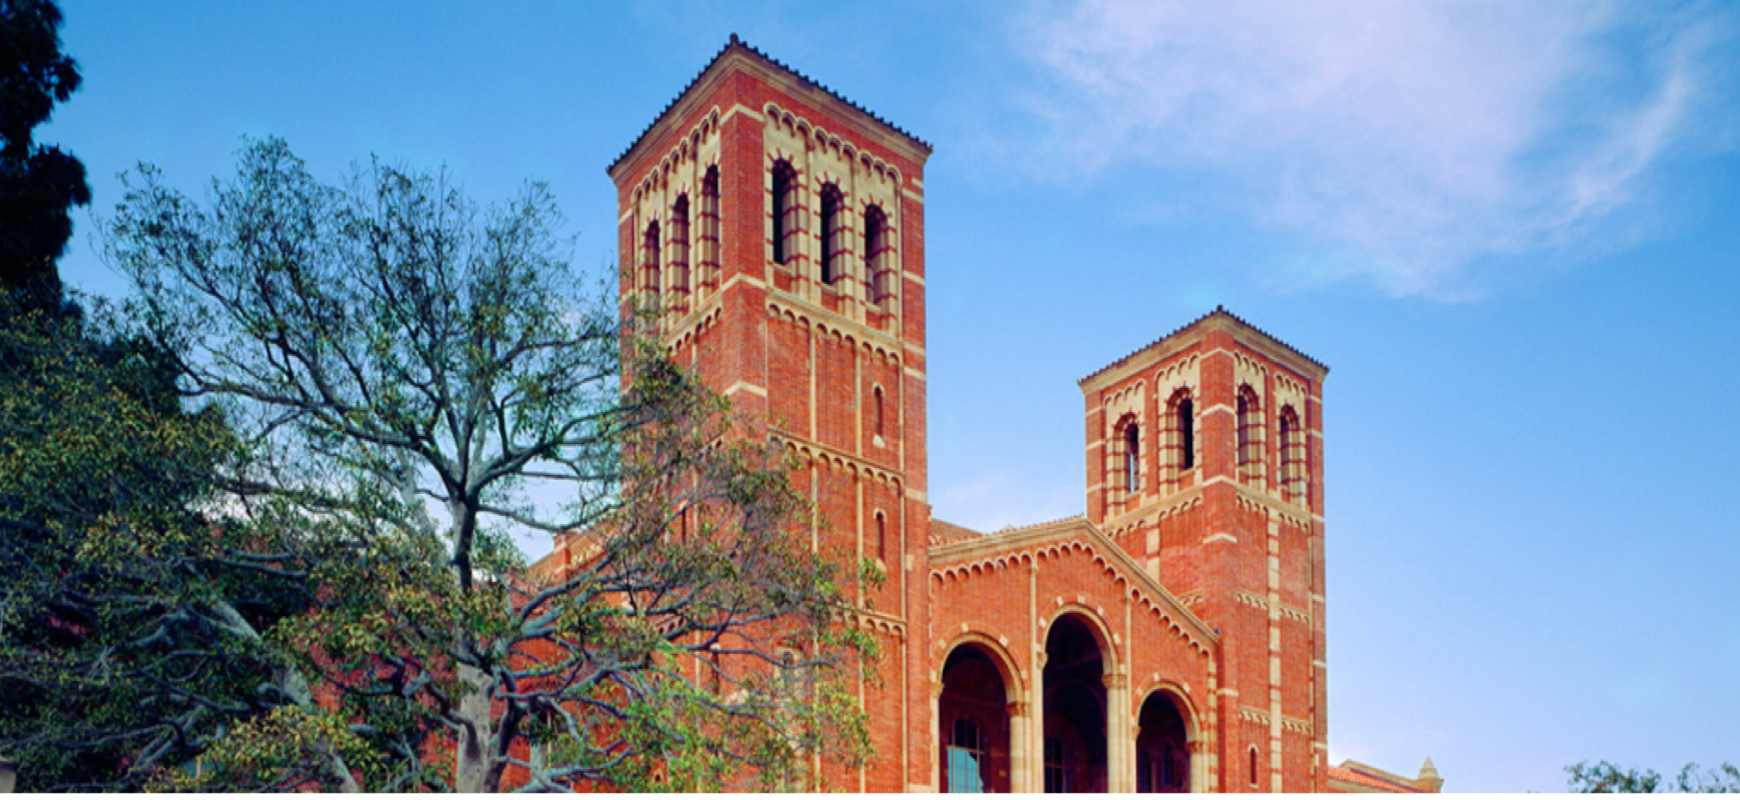
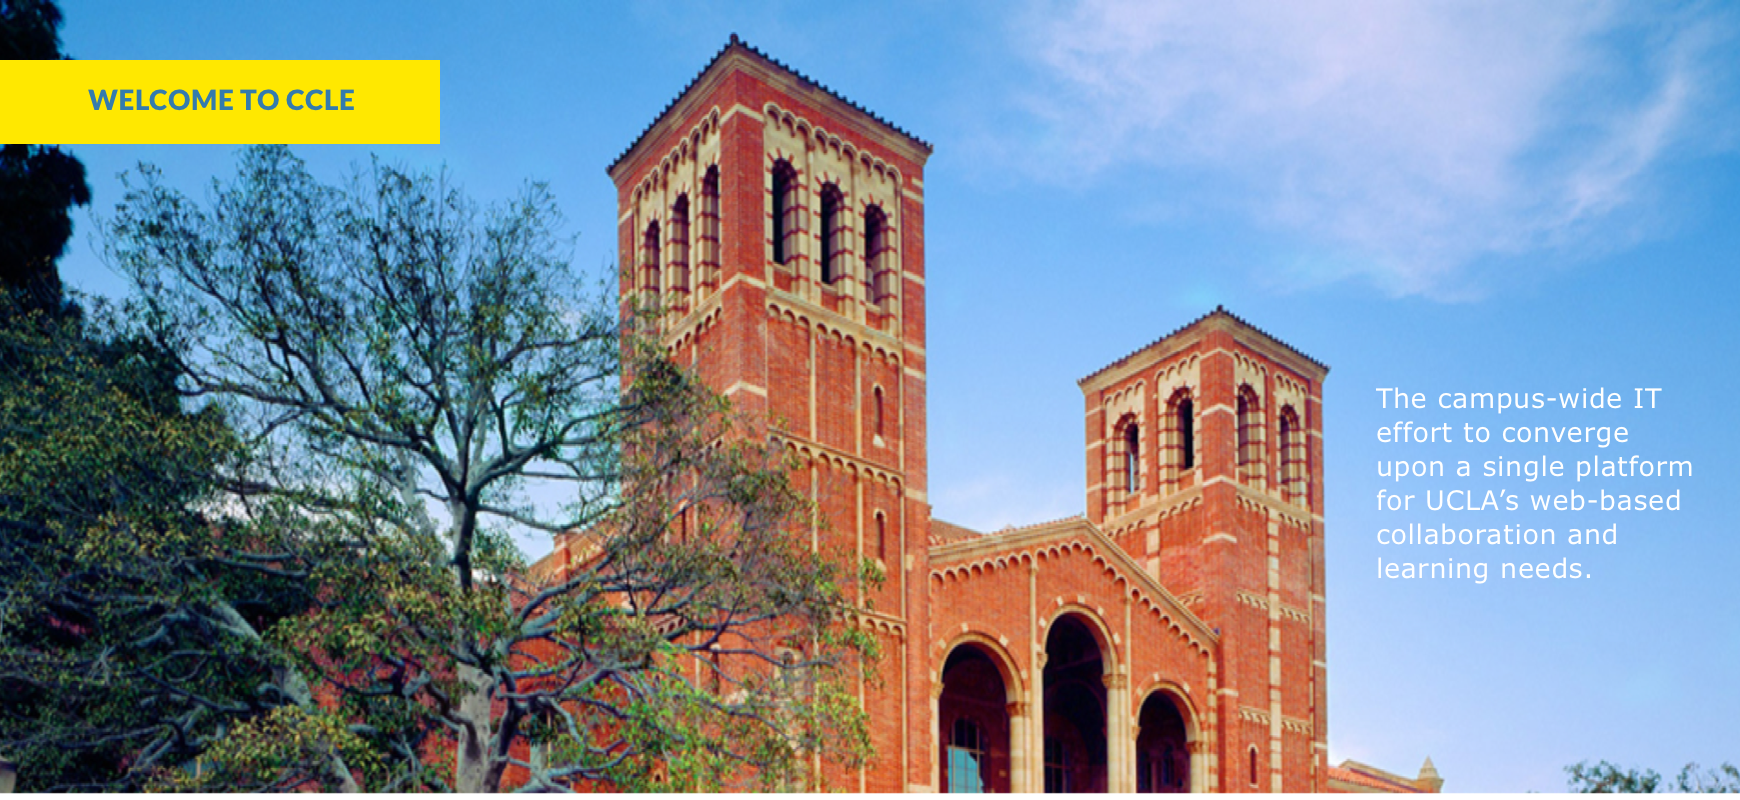
Completed re-design of CCLE home page

Changed region(s): [[0.7759, 0.4688, 0.9621, 0.7188], [0.0, 0.0625, 0.2793, 0.1875]]

diff --git a/src/pages/index.html b/src/pages/index.html
@@ -47,6 +47,7 @@
         <!-- Hero Image -->
         <div class="hero-img">
             <img class="hero image-ucla" src="./assets/img/UCLA HERO IMAGE.png" alt="UCLA CCLE Common Collaboration and Learning Environment">
+            <a href="https://ccle.ucla.edu/course/view/aboutccle?section=0"><P class="hero-img-btn">Learn more</P></a>
         </div>
         <br>
         <!-- Search Bar -->
@@ -58,9 +59,9 @@
 
             <div class="small-3 columns">
                   <select>
-                    <option value="title">No filter</option>
                     <option value="description">Filter By Title</option>
                     <option value="null">Filter By Description</option>
+                    <option value="title">No filter</option>
                   </select>
             </div>
 
@@ -160,7 +161,7 @@
                         <span aria-hidden="true">&times;</span>
                         </button>
                     </div>
-                    <p><a data-open="update1">Nov 29, 2016</a></p>
+                    <p><a class="tab-links" data-open="update1">Nov 29, 2016</a></p>
                    </li>
                   <li>
                     <div class="reveal update-modal" id="update2" data-reveal>
@@ -171,7 +172,7 @@
                         <span aria-hidden="true">&times;</span>
                         </button>
                     </div>
-                    <p><a data-open="update2">Nov 9, 2016</a></p>
+                    <p><a class="tab-links" data-open="update2">Nov 9, 2016</a></p>
                   </li>
                   <li>
                     <div class="reveal update-modal" id="update3" data-reveal>
@@ -185,7 +186,7 @@
                         <span aria-hidden="true">&times;</span>
                         </button>
                     </div>
-                    <p><a data-open="update3">Oct 25, 2016</a></p>
+                    <p><a class="tab-links" data-open="update3">Oct 25, 2016</a></p>
                   </li>
                   <li>
                     <div class="reveal update-modal" id="update4" data-reveal>
@@ -199,18 +200,23 @@
                         <span aria-hidden="true">&times;</span>
                         </button>
                   <br>
-                  <li><a id= "more-updates" href="https://docs.ccle.ucla.edu/w/Tips_and_Updates">See more updates</a></li>
+                  <li><a class="tab-links" href="https://docs.ccle.ucla.edu/w/Tips_and_Updates">See more updates</a></li>
                 </ul>
               </div>
               <div class="tabs-panel" id="tips">
                 <ul class="no-bullet">
-                  <li><a class="tip-links" href="https://docs.ccle.ucla.edu/w/Turnitin_Assignment_v2#Allow_resubmissions"> Turnitin: Allow resubmissions</a></li>
-                  <br>
-                  <li><a class="tip-links" href="https://docs.ccle.ucla.edu/w/Turnitin_Assignment_v2#Allow_Submissions_after_the_Due_Date">Turnitin: Allow Submissions after the Due Date</a></li>
-                  <br>
-                  <li><a class="tip-links" href="https://docs.ccle.ucla.edu/w/Assignments#.22Hide.22_the_Grade">Start grading now! Easily hide an assignment while you are grading.</a></li>
-                  <br>
-                  <li><a class="tip-links" href="https://docs.ccle.ucla.edu/w/Tips_and_Updates">See more tips</a></li>
+                  <li>
+                    <a class="tab-links" href="https://docs.ccle.ucla.edu/w/Turnitin_Assignment_v2#Allow_resubmissions"> Turnitin: Allow resubmissions</a>
+                  </li>
+                  <li>
+                    <a class="tab-links" href="https://docs.ccle.ucla.edu/w/Turnitin_Assignment_v2#Allow_Submissions_after_the_Due_Date">Turnitin: Allow Submissions after the Due Date</a>
+                  </li>
+                  <li>
+                    <a class="tab-links" href="https://docs.ccle.ucla.edu/w/Assignments#.22Hide.22_the_Grade">Start grading now! Easily hide an assignment while you are grading.</a>
+                  </li>
+                  <li>
+                    <a class="tab-links" href="https://docs.ccle.ucla.edu/w/Tips_and_Updates">See more tips</a>
+                  </li>
                 </ul>
               </div>
             </div>
@@ -243,6 +249,8 @@
 </div>
 
 <script src="https://code.jquery.com/jquery-2.1.4.min.js"></script>
+<script src="jquery.popup.js"></script>
+<script src="jquery.popup.dialog.js"></script>
 <script src="http://dhbhdrzi4tiry.cloudfront.net/cdn/sites/foundation.js"></script>
 <script type="text/javascript" src="https://intercom.zurb.com/scripts/zcom.js"></script>
 

diff --git a/src/layouts/default.html b/src/layouts/default.html
@@ -60,16 +60,8 @@
          color: #FFFFFF;
       }
 
-      #tips {
-        font-size: small;
-      }
-
       #updates {
         font-size: small;
-      }
-
-      #more-updates:hover {
-        text-decoration: underline;
       }
 
       #footer #footer-links {
@@ -86,6 +78,24 @@
       .hero-img {
         width: 100%;
         height: 100%;
+        position: relative;
+      }
+
+      .hero-img-btn {
+        z-index: 999;
+        position: absolute;
+        top: 78%;
+        left: 79%;
+        padding: 0.8%;
+        border: solid;
+        border-width: 1px;
+        color: white;
+      }
+
+      .hero-img-btn:hover {
+        color: #FEE633;
+        opacity: 10%;
+        border-width: medium;
       }
 
       .header-logo .logo-ucla {
@@ -133,8 +143,13 @@
         margin-right: 10px;
       }
 
-      .tip-links:hover {
-        text-decoration: underline; 
+      .tab-links{
+        font-size: small;
+      }
+
+      .tab-links:hover {
+        text-decoration: underline;
+        color: #8237ff;  
       }
 
       .tabs-label {
